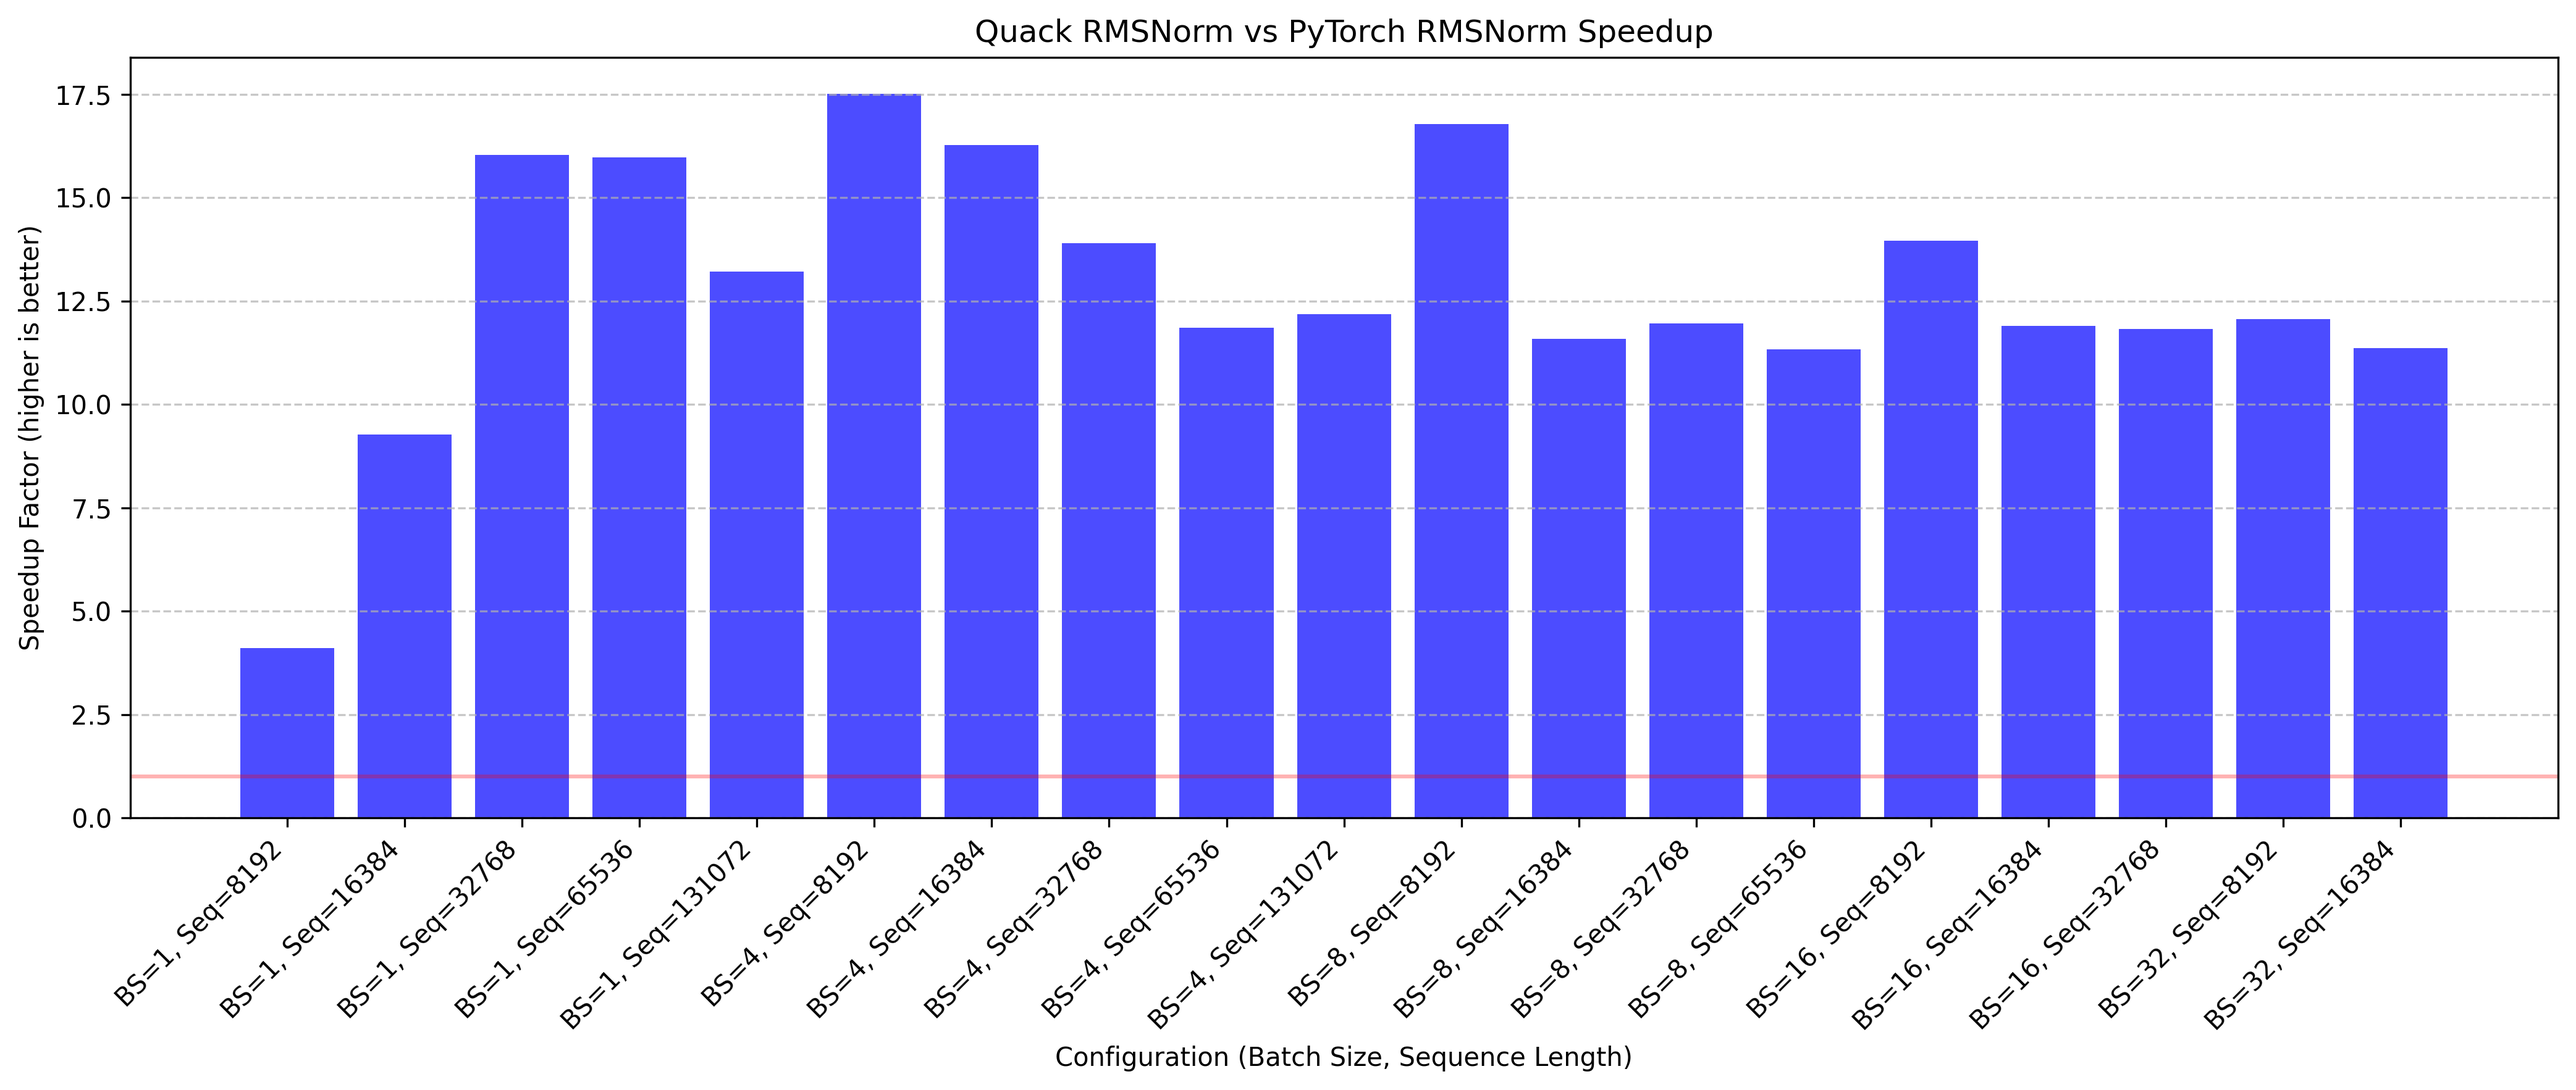
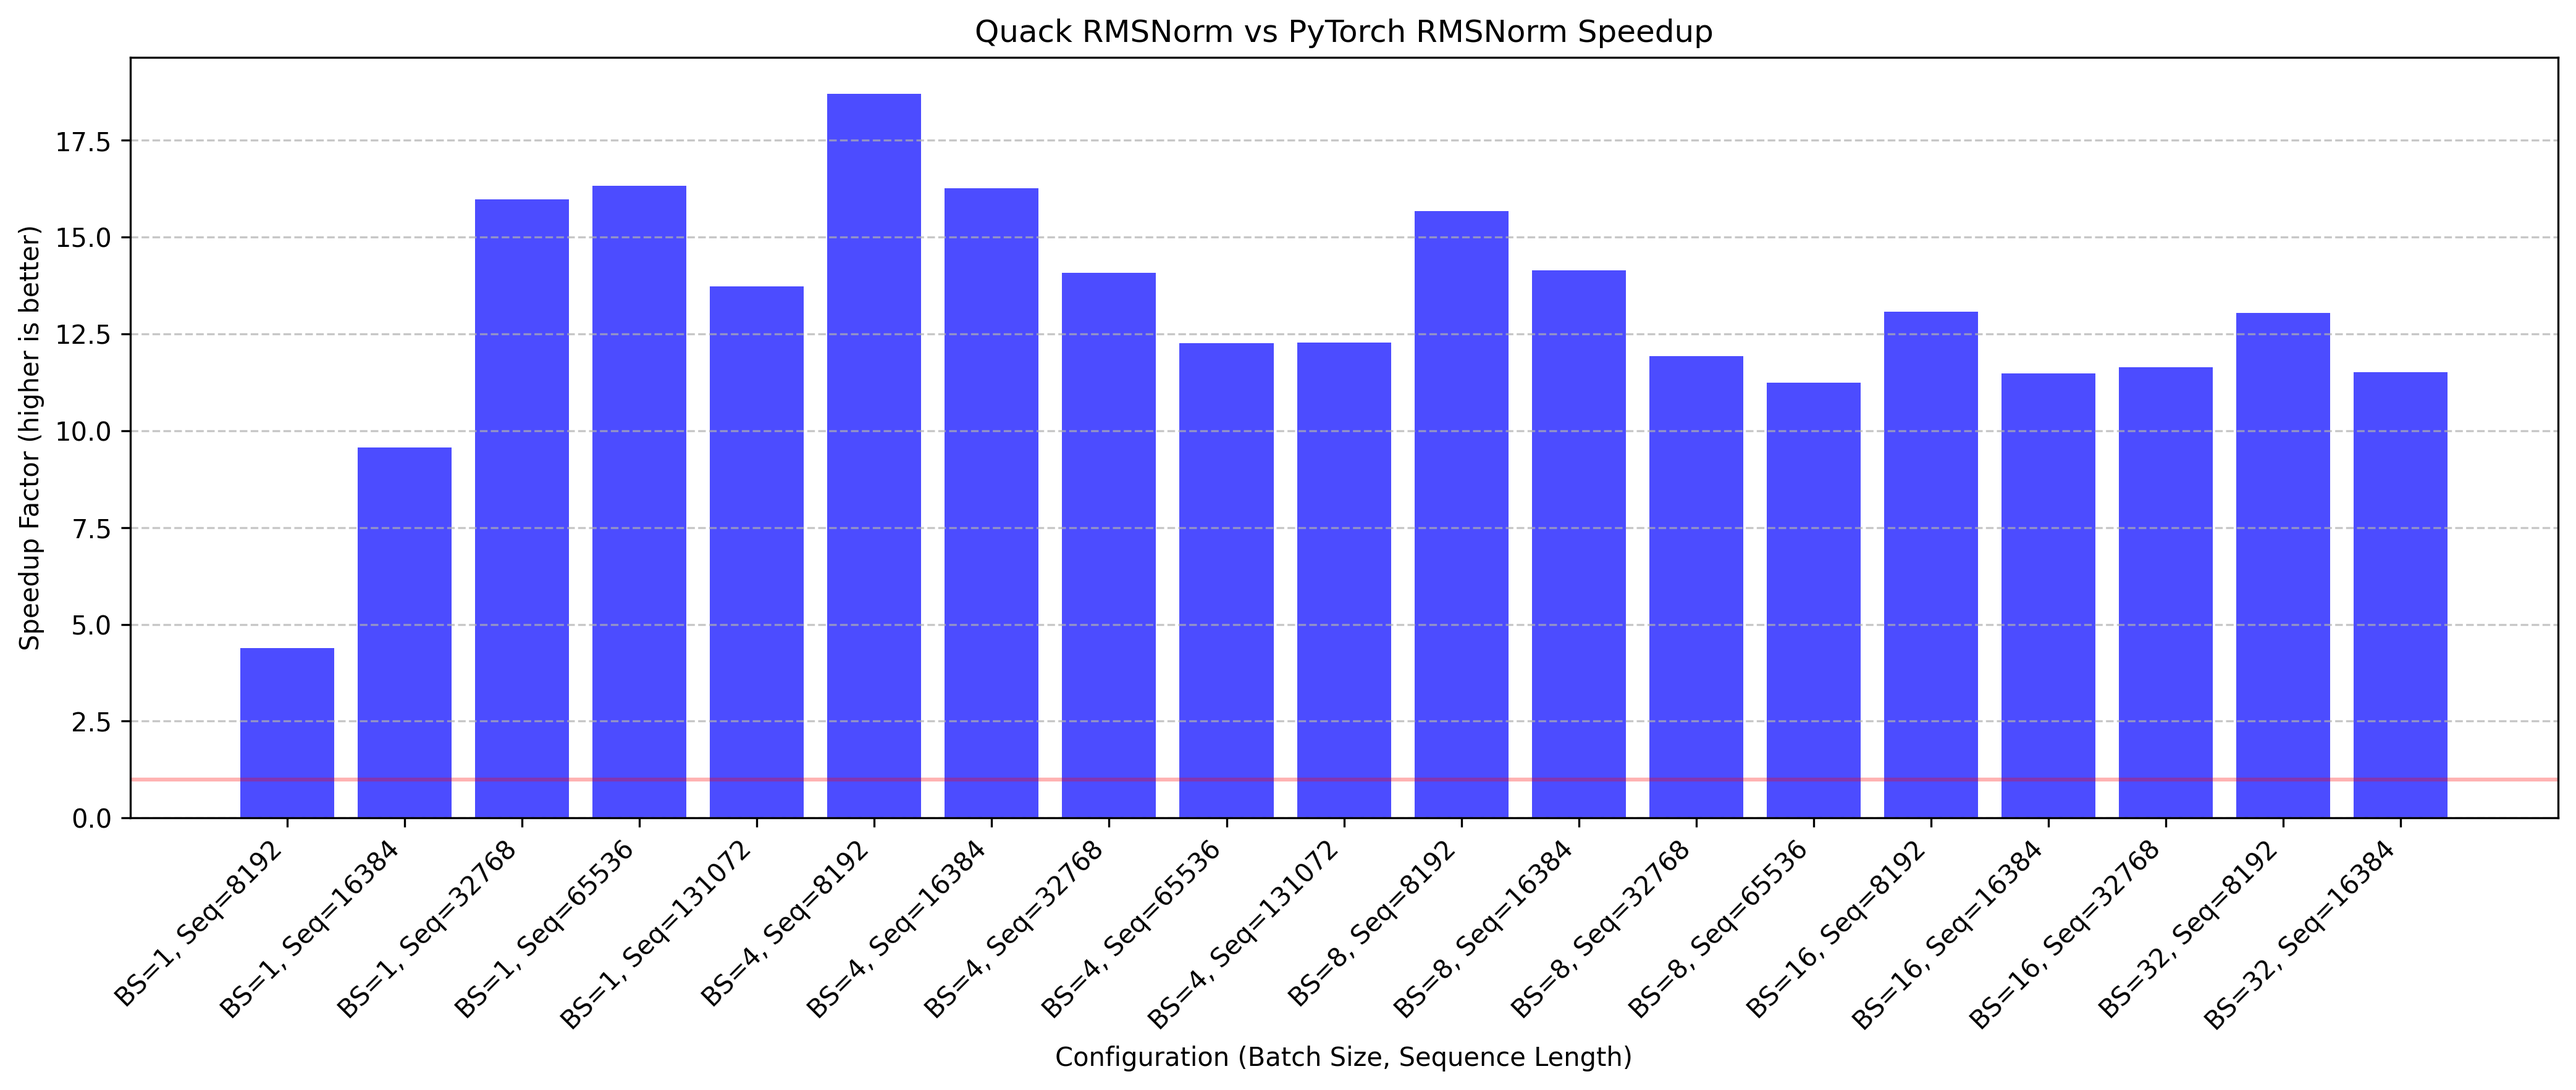
add backwards benchmarking

diff --git a/benchmarks/pytorch_benchmark_rmsnorm_backward.py b/benchmarks/pytorch_benchmark_rmsnorm_backward.py
@@ -23,26 +23,35 @@ class RMSNorm(nn.Module):
         return self.scale * x_normed
 
 
-def benchmark_implementation(
+def benchmark_backward_implementation(
     implementation_name,
     model,
     input_data,
     num_iterations=100,
     warmup_iterations=10,
 ):
-    """Benchmark a specific implementation and return timing results."""
+    """Benchmark a specific implementation's backward pass and return timing results."""
+    # Create gradient tensor of the same shape as the output
+    grad_output = torch.randn_like(input_data)
+
     # Warmup
     for _ in range(warmup_iterations):
-        _ = model(input_data)
-    torch.cuda.synchronize()
+        input_data_clone = input_data.clone().requires_grad_(True)
+        output = model(input_data_clone)
+        output.backward(grad_output)
+        torch.cuda.synchronize()
 
     # Benchmark
     start_event = torch.cuda.Event(enable_timing=True)
     end_event = torch.cuda.Event(enable_timing=True)
+
     start_event.record()
     for _ in range(num_iterations):
-        _ = model(input_data)
+        input_data_clone = input_data.clone().requires_grad_(True)
+        output = model(input_data_clone)
+        output.backward(grad_output)
     end_event.record()
+
     torch.cuda.synchronize()
 
     elapsed_time_ms = start_event.elapsed_time(end_event)
@@ -55,27 +64,27 @@ def benchmark_implementation(
     }
 
 
-def benchmark_rmsnorm_cuda(
+def benchmark_rmsnorm_backward_cuda(
     input_shape,
     normalized_dim,
     num_iterations=100,
     warmup_iterations=10,
     dtype=torch.bfloat16,
 ):
-    """Run benchmarks for different RMSNorm implementations and return results."""
+    """Run backward pass benchmarks for different RMSNorm implementations and return results."""
     input_data = torch.randn(input_shape, device="cuda", dtype=dtype)
     results = []
 
     # Benchmark PyTorch RMSNorm
     rms_norm_layer = torch.nn.RMSNorm(normalized_dim, device="cuda", dtype=dtype)
-    result = benchmark_implementation(
+    result = benchmark_backward_implementation(
         "PyTorch RMSNorm", rms_norm_layer, input_data, num_iterations, warmup_iterations
     )
     results.append(result)
 
     # Benchmark TorchCompile RMSNorm
     compiled_rms_norm = torch.compile(RMSNorm(dim=normalized_dim)).cuda().to(dtype)
-    result = benchmark_implementation(
+    result = benchmark_backward_implementation(
         "TorchCompile RMSNorm",
         compiled_rms_norm,
         input_data,
@@ -86,7 +95,7 @@ def benchmark_rmsnorm_cuda(
 
     # Benchmark QuackRMSNorm
     quack_rms_norm = QuackRMSNorm(dim=normalized_dim).cuda().to(dtype)
-    result = benchmark_implementation(
+    result = benchmark_backward_implementation(
         "Quack RMSNorm", quack_rms_norm, input_data, num_iterations, warmup_iterations
     )
     results.append(result)
@@ -112,7 +121,7 @@ def display_results_table(all_results):
     current_batch = None
 
     print("\n" + "=" * 80)
-    print("RMSNorm Benchmark Results")
+    print("RMSNorm Backward Pass Benchmark Results")
     print("=" * 80)
 
     # Collect speedup data for graphs
@@ -247,41 +256,62 @@ def generate_speedup_graphs(quack_vs_pytorch, quack_vs_torchcompile, config_labe
     # Add labels and title
     plt.xlabel("Configuration (Batch Size, Sequence Length)")
     plt.ylabel("Speedup Factor (higher is better)")
-    plt.title("RMSNorm Implementation Speedup Comparison")
+    plt.title("RMSNorm Backward Pass Implementation Speedup Comparison")
     plt.xticks(x, config_labels, rotation=45, ha="right")
+
+    # Add grid lines at .5 intervals
+    max_speedup = max(max(quack_vs_pytorch), max(quack_vs_torchcompile))
+    y_max = max(2.0, np.ceil(max_speedup * 1.1))  # At least 2.0 or 10% above max
+    plt.yticks(np.arange(0, y_max + 0.5, 0.5))  # Major ticks at 0.5 intervals
+    plt.grid(axis="y", linestyle="-", alpha=0.3)
+
     plt.tight_layout()
-    plt.grid(axis="y", linestyle="--", alpha=0.7)
     plt.legend()
 
     # Save the figure
-    output_path = os.path.join(visual_output_dir, "rmsnorm_speedup_comparison.png")
+    output_path = os.path.join(visual_output_dir, "rmsnorm_backward_speedup_comparison.png")
     plt.savefig(output_path, dpi=300, bbox_inches="tight")
     print(f"\nSpeedup graph saved to: {output_path}")
 
-    # Create separate graphs for each comparison
+    # Quack vs PyTorch comparison
     plt.figure(figsize=(14, 6))
     plt.bar(x, quack_vs_pytorch, color="blue", alpha=0.7)
     plt.axhline(y=1.0, color="r", linestyle="-", alpha=0.3)
     plt.xlabel("Configuration (Batch Size, Sequence Length)")
     plt.ylabel("Speedup Factor (higher is better)")
-    plt.title("Quack RMSNorm vs PyTorch RMSNorm Speedup")
+    plt.title("Quack RMSNorm vs PyTorch RMSNorm Backward Pass Speedup")
     plt.xticks(x, config_labels, rotation=45, ha="right")
+
+    # Add grid lines at .5 intervals
+    max_speedup = max(quack_vs_pytorch)
+    y_max = max(2.0, np.ceil(max_speedup * 1.1))  # At least 2.0 or 10% above max
+    plt.yticks(np.arange(0, y_max + 0.5, 0.5))  # Major ticks at 0.5 intervals
+    plt.grid(axis="y", linestyle="-", alpha=0.3)
+
     plt.tight_layout()
-    plt.grid(axis="y", linestyle="--", alpha=0.7)
-    output_path = os.path.join(visual_output_dir, "quack_vs_pytorch_speedup.png")
+
+    output_path = os.path.join(visual_output_dir, "quack_vs_pytorch_backward_speedup.png")
     plt.savefig(output_path, dpi=300, bbox_inches="tight")
     print(f"Quack vs PyTorch graph saved to: {output_path}")
 
+    # Quack vs TorchCompile comparison
     plt.figure(figsize=(14, 6))
     plt.bar(x, quack_vs_torchcompile, color="green", alpha=0.7)
     plt.axhline(y=1.0, color="r", linestyle="-", alpha=0.3)
     plt.xlabel("Configuration (Batch Size, Sequence Length)")
     plt.ylabel("Speedup Factor (higher is better)")
-    plt.title("Quack RMSNorm vs TorchCompile RMSNorm Speedup")
+    plt.title("Quack RMSNorm vs TorchCompile RMSNorm Backward Pass Speedup")
     plt.xticks(x, config_labels, rotation=45, ha="right")
+
+    # Add grid lines at .5 intervals
+    max_speedup = max(quack_vs_torchcompile)
+    y_max = max(2.0, np.ceil(max_speedup * 1.1))  # At least 2.0 or 10% above max
+    plt.yticks(np.arange(0, y_max + 0.5, 0.5))  # Major ticks at 0.5 intervals
+    plt.grid(axis="y", linestyle="-", alpha=0.3)
+
     plt.tight_layout()
-    plt.grid(axis="y", linestyle="--", alpha=0.7)
-    output_path = os.path.join(visual_output_dir, "quack_vs_torchcompile_speedup.png")
+
+    output_path = os.path.join(visual_output_dir, "quack_vs_torchcompile_backward_speedup.png")
     plt.savefig(output_path, dpi=300, bbox_inches="tight")
     print(f"Quack vs TorchCompile graph saved to: {output_path}")
 
@@ -289,14 +319,14 @@ def generate_speedup_graphs(quack_vs_pytorch, quack_vs_torchcompile, config_labe
 if __name__ == "__main__":
     # Define batch sizes and sequence lengths to benchmark
     batch_sizes = [1, 4, 8, 16, 32]
-    sequence_lengths = [8192, 16384, 32768, 65536, 65536 * 2]
+    sequence_lengths = [4096, 8192, 16384, 32768, 65536]
     hidden_features = 4096  # Fixed hidden dimension
     dtype = torch.bfloat16
 
     num_benchmark_iterations = 50
     num_warmup_iterations = 20
 
-    print("Running RMSNorm benchmarks across different sequence lengths...")
+    print("Running RMSNorm backward pass benchmarks across different sequence lengths...")
     print(f"Hidden dimension: {hidden_features}, Data type: {dtype}")
     print(f"Iterations: {num_benchmark_iterations}, Warmup: {num_warmup_iterations}")
 
@@ -326,7 +356,7 @@ if __name__ == "__main__":
                 norm_dim = hidden_features
 
                 try:
-                    results = benchmark_rmsnorm_cuda(
+                    results = benchmark_rmsnorm_backward_cuda(
                         input_shape=shape,
                         normalized_dim=norm_dim,
                         num_iterations=num_benchmark_iterations,
@@ -338,7 +368,7 @@ if __name__ == "__main__":
                     print(f"Error benchmarking BS={batch_size}, SeqLen={sequence_length}: {e}")
 
         # Display results in a table
-        print("\n=== RMSNorm Benchmark Results ===")
+        print("\n=== RMSNorm Backward Pass Benchmark Results ===")
         display_results_table(all_results)
 
     except KeyboardInterrupt:
